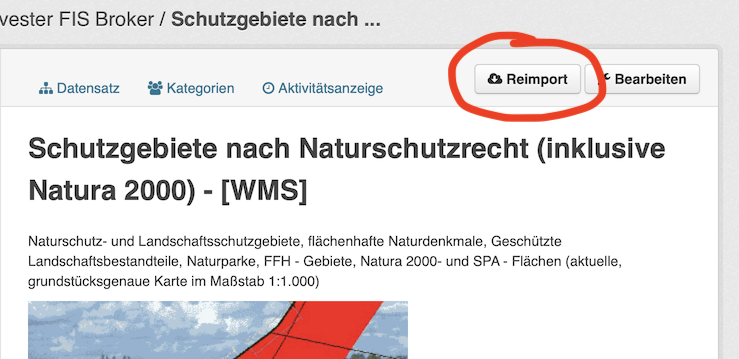
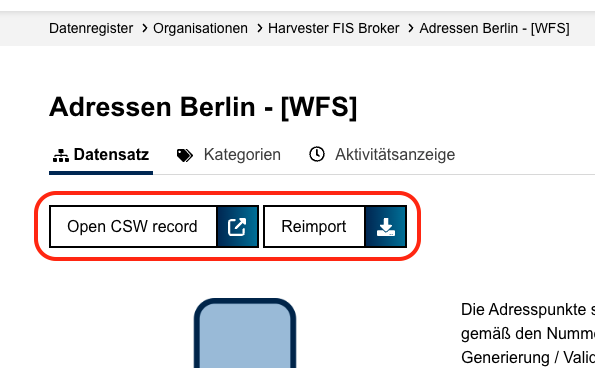
update reimport button screenshot in readme [skip ci]

diff --git a/README.md b/README.md
@@ -44,17 +44,15 @@ There are different ways to trigger a reimport.
 
 ### Reimport Button
 
-Every dataset that was harvested by the FIS-Broker Harvester has a **Reimport** button next to the **Edit** button in the upper right-hand corner of the dataset page.
+Every dataset that was harvested by the FIS-Broker Harvester has a **Reimport** button at the top of the **Datensatz** tab.
 Clicking will trigger a reimport job for that dataset.
 
-![Screenshot eines Datensatzes "Schutzgebiete nach Naturschutzrecht" im Datenregister, mit rot hervorgehobenem Reimport-Button](image/reimport_button.png)
+![Screenshot of the dataset page "Adressen Berlin - [WFS]", with highlighted "Open-CSW-Record" and "Reimport" buttons](image/reimport_button.png)
 
 ### "Open CSW record"-Button
 
-Every dataset that was harvested by the FIS-Broker Harvester has an **Open CSW record** button next to the **Reimport** button in the upper right-hand corner of the dataset page.
+Every dataset that was harvested by the FIS-Broker Harvester has an **Open CSW record** button next to the **Reimport** button.
 Clicking will open the full CSW record for this dataset on its original server.
-
-![Screenshot eines Datensatzes "Schutzgebiete nach Naturschutzrecht" im Datenregister, mit rot hervorgehobenem "Open CSW Record"-Button](image/open_csw_record_button.png)
 
 ## Configuration
 